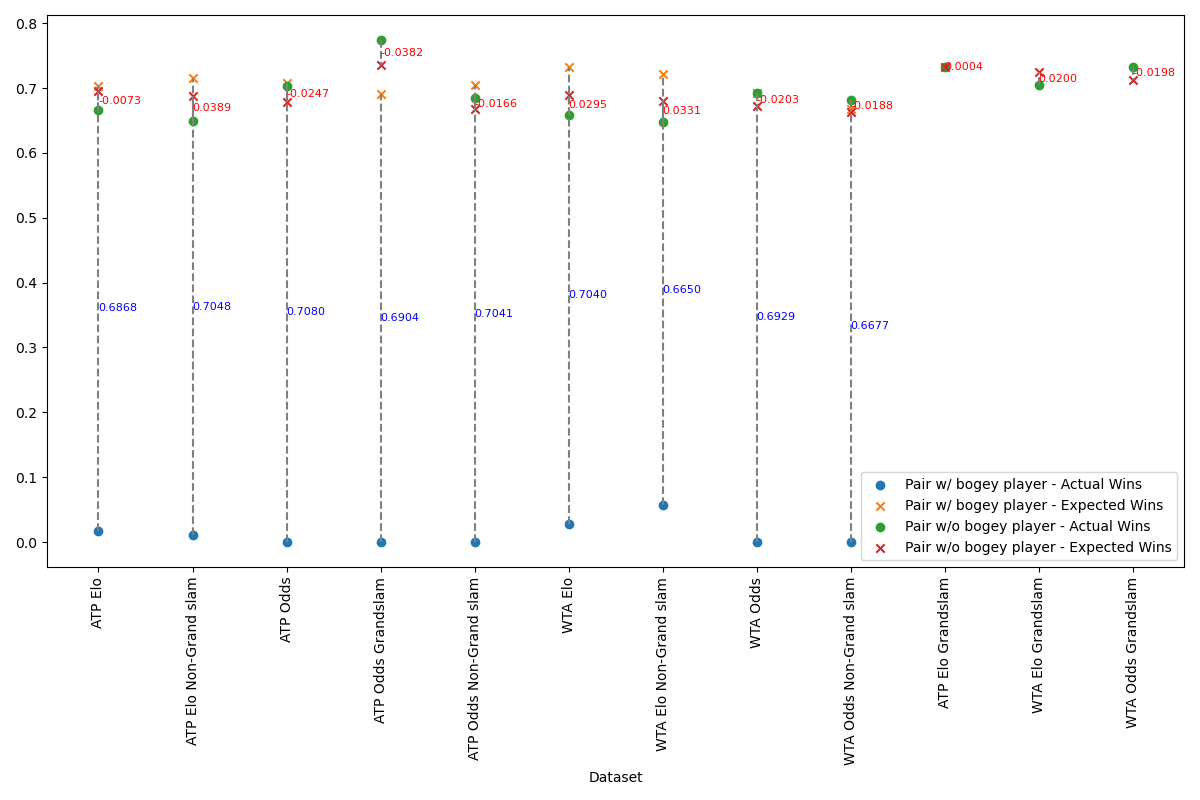
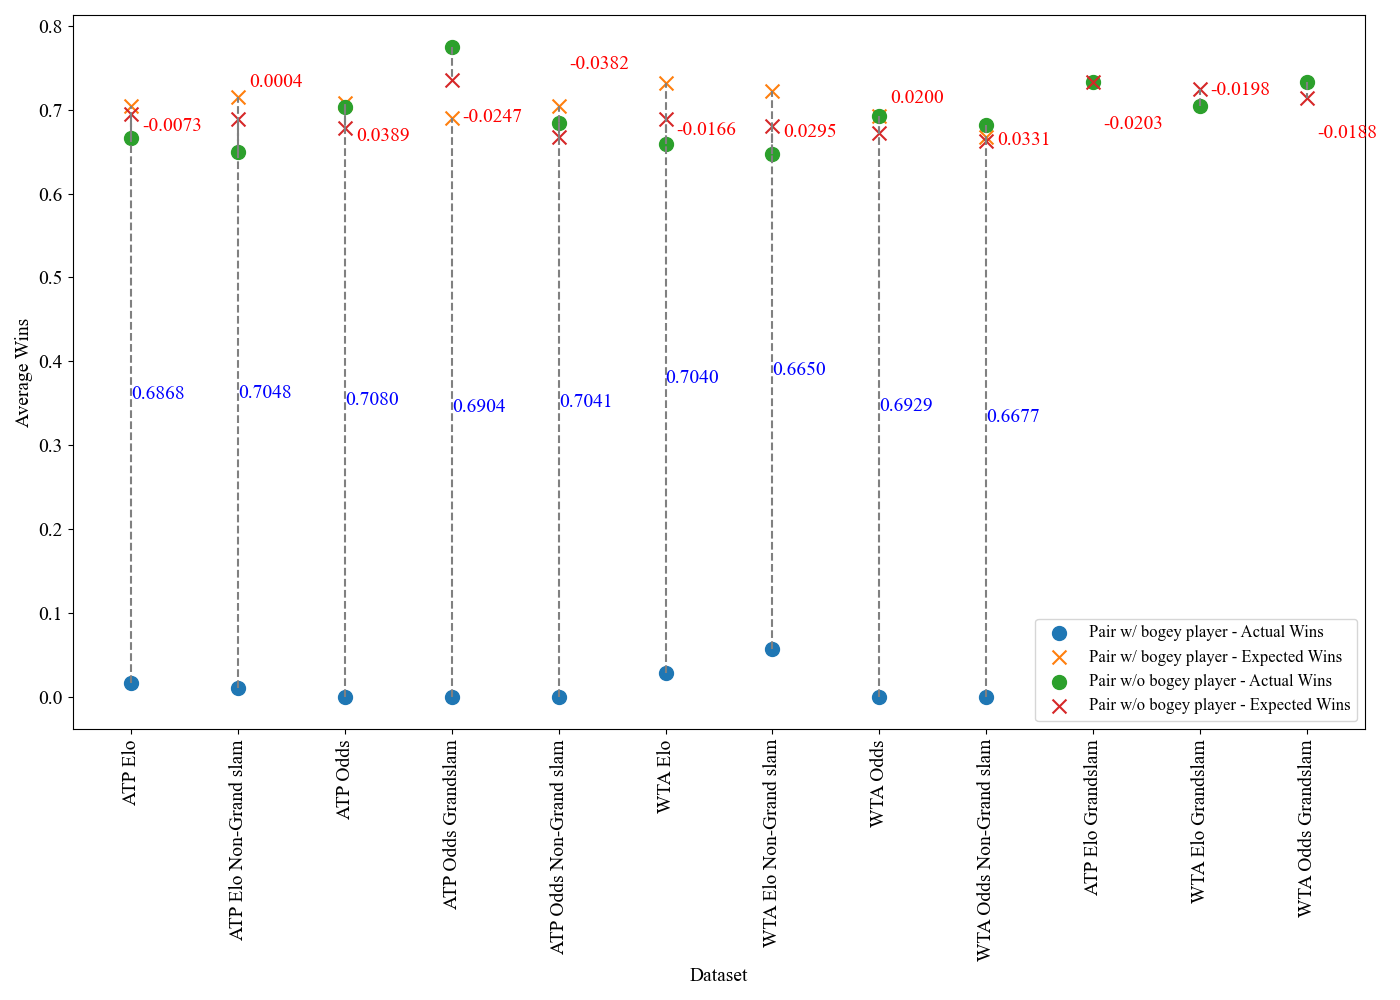
publication changes

diff --git a/plot_descriptives_elo_odds.py b/plot_descriptives_elo_odds.py
@@ -1,4 +1,4 @@
-import csv
+import csv 
 import pandas as pd
 import numpy as np
 import warnings
@@ -8,6 +8,17 @@ import ast
 import os
 import seaborn as sns
 import matplotlib.pyplot as plt
+from matplotlib import rcParams
+
+# Set global font to Times New Roman and increase font sizes
+rcParams['font.family'] = 'serif'
+rcParams['font.serif'] = ['Times New Roman']
+rcParams['font.size'] = 20  # Default font size for all text
+rcParams['axes.titlesize'] = 20  # Title font size
+rcParams['axes.labelsize'] = 20  # Axes labels font size
+rcParams['xtick.labelsize'] = 20  # X-axis tick labels font size
+rcParams['ytick.labelsize'] = 20  # Y-axis tick labels font size
+rcParams['legend.fontsize'] = 16  # Legend font size
 
 pd.options.mode.chained_assignment = None
 warnings.filterwarnings("ignore")
@@ -23,6 +34,14 @@ parser.add_argument('-e', '--e_date', type=str, required=False, default='max', h
 parser.add_argument('-p', '--p_adj_method', type=str, required=False, default='BH', help='p-value adjustment for multiple comparisons method, e.g., bonferroni, hochberg, BH, holm, hommel, BY')
 parser.add_argument('-u', '--upset', type=str, required=False, choices=['odds','elo'], default='odds', help='whether an unexpected result is based on the betting odds or elo rating (default=odds)')
 args, _ = parser.parse_known_args()
+
+def get_grand_slam_description(grand_slam_value):
+    if grand_slam_value == 0:
+        return "Non Grand Slams"
+    elif grand_slam_value == 1:
+        return "Grand Slams Only"
+    elif grand_slam_value == 2:
+        return "All Tournaments"  # This could also be "Grand Slams and Non Grand Slams"
 
 def main():
     if args.dataset == 'test':
@@ -91,9 +110,7 @@ def main():
 
     # Calculate the combined mean and variance for betting odds
     combined_mean = agg_odds_df['Betting_Odds_mean']
-    # combined_mean = (agg_winner_df['Betting_Win_Odds_mean'] + agg_winner_df['Betting_Lose_Odds_mean']) / 2
     combined_variance = agg_odds_df['Betting_Odds_variance']
-    # combined_variance = (agg_winner_df['Betting_Win_Odds_variance'] + agg_winner_df['Betting_Lose_Odds_variance']) / 2
 
     # Calculate the coefficient of variation for Elo and Betting odds
     agg_elo_df['Elo_CV'] = np.sqrt(agg_elo_df['Elo_variance']) / agg_elo_df['Elo_mean']
@@ -106,6 +123,9 @@ def main():
     agg_winner_df_filtered = agg_winner_df.dropna()
     agg_odds_df_filtered = agg_odds_df.dropna()
 
+    # Grand Slam description
+    grand_slam_desc = get_grand_slam_description(args.grand_slam)
+
     # Plotting the CVs
     plt.figure(figsize=(12, 6))
     plt.plot(agg_elo_df_filtered['Year'].astype(str), agg_elo_df_filtered['Elo_CV'], marker='o', label='Elo CV')
@@ -115,31 +135,20 @@ def main():
 
     plt.xlabel('Year')
     plt.ylabel('Coefficient of Variation (CV)')
-    if args.grand_slam == 1:
-        plt.title('Yearly Coefficient of Variation (CV) for Betting Odds and Elo Ratings' + ' - ' + args.dataset + ' - ' + 'Grand Slam')
-    elif args.grand_slam == 0:
-        plt.title('Yearly Coefficient of Variation (CV) for Betting Odds and Elo Ratings' + ' - ' + args.dataset + ' - ' + 'Non Grand Slam')
-    else:
-        plt.title('Yearly Coefficient of Variation (CV) for Betting Odds and Elo Ratings' + ' - ' + args.dataset)
-    plt.legend()
+    plt.title(f'Yearly Coefficient of Variation (CV) for Betting Odds and Elo Ratings - {args.dataset}, {grand_slam_desc}')
+    plt.legend(loc='upper left', bbox_to_anchor=(1, 1), framealpha=0.8)  # Place legend outside the plot
     plt.grid(True)
     plt.xticks(rotation=45)
     plt.tight_layout()
     plt.show()
 
-    # Create figure and axes objects
+    # Create figure and axes objects for Elo Mean and CV
     fig, (ax1, ax2) = plt.subplots(2, 1, figsize=(12, 8), sharex=True)
 
     # Plot Elo mean
     ax1.plot(agg_elo_df_filtered['Year'].astype(str), agg_elo_df_filtered['Elo_mean'], marker='o', color='b', label='Elo Mean')
     ax1.set_ylabel('Elo Mean')
-    # ax1.set_title('Elo Mean and CV Over Time')
-    if args.grand_slam == 1:
-        ax1.set_title('Elo Mean and CV Over Time' + ' - ' + args.dataset + ' - ' + 'Grand Slam')
-    elif args.grand_slam == 0:
-        ax1.set_title('Elo Mean and CV Over Time' + ' - ' + args.dataset + ' - ' + 'Non Grand Slam')
-    else:
-        ax1.set_title('Elo Mean and CV Over Time' + ' - ' + args.dataset)
+    ax1.set_title(f'Elo Mean and CV Over Time - {args.dataset}, {grand_slam_desc}')
 
     # Plot Elo variance
     ax2.plot(agg_elo_df_filtered['Year'].astype(str), agg_elo_df_filtered['Elo_CV'], marker='o', color='r', label='Elo CV')
@@ -147,8 +156,8 @@ def main():
     ax2.set_xlabel('Year')
 
     # Show legend and grid
-    ax1.legend()
-    ax2.legend()
+    ax1.legend(loc='upper left', bbox_to_anchor=(1, 1), framealpha=0.8)
+    ax2.legend(loc='upper left', bbox_to_anchor=(1, 1), framealpha=0.8)
     ax1.grid(True)
     ax2.grid(True)
 
@@ -157,22 +166,15 @@ def main():
 
     # Adjust layout
     plt.tight_layout()
-
-    # Show plot
     plt.show()
 
-   # Create figure and axes objects
+    # Create figure and axes objects for Odds Mean and CV
     fig, (ax1, ax2) = plt.subplots(2, 1, figsize=(12, 8), sharex=True)
 
     # Plot Winner Odds mean
     ax1.plot(agg_winner_df_filtered['Year'].astype(str), agg_winner_df_filtered['Betting_Win_Odds_mean'], marker='o', color='b', label='Winner Odds Mean')
     ax1.set_ylabel('Odds Mean')
-    if args.grand_slam == 1:
-        ax1.set_title('Odds Mean and CV Over Time' + ' - ' + args.dataset + ' - ' + 'Grand Slam')
-    elif args.grand_slam == 0:
-        ax1.set_title('Mean and CV Over Time' + ' - ' + args.dataset + ' - ' + 'Non Grand Slam')
-    else:
-        ax1.set_title('Odds Mean and CV Over Time' + ' - ' + args.dataset)
+    ax1.set_title(f'Odds Mean and CV Over Time - {args.dataset}, {grand_slam_desc}')
 
     # Plot Loser Odds mean
     ax1.plot(agg_winner_df_filtered['Year'].astype(str), agg_winner_df_filtered['Betting_Lose_Odds_mean'], marker='o', color='r', label='Loser Odds Mean')
@@ -192,8 +194,8 @@ def main():
     ax2.plot(agg_winner_df_filtered['Year'].astype(str), np.sqrt(combined_variance), marker='o', color='g', label='Combined Odds CV')
 
     # Show legend and grid
-    ax1.legend()
-    ax2.legend()
+    ax1.legend(loc='upper left', bbox_to_anchor=(1, 1), framealpha=0.8)
+    ax2.legend(loc='upper left', bbox_to_anchor=(1, 1), framealpha=0.8)
     ax1.grid(True)
     ax2.grid(True)
 
@@ -202,8 +204,6 @@ def main():
 
     # Adjust layout
     plt.tight_layout()
-
-    # Show plot
     plt.show()
 
 if __name__ == "__main__":

diff --git a/plot_results.py b/plot_results.py
@@ -1,14 +1,20 @@
 import numpy as np
 import matplotlib.pyplot as plt
+from matplotlib import rcParams
 
-# Data
-# datasets = ['ATP', 'WTA', 'ATP Grand Slam', 'WTA Grand Slam', 'ATP Non grand slam', 'WTA Non grand slam']
-# betting_odds = [0.02193, 0.04418, 0.01823, 0, 0.03813, 0.03739]
-# elo_ratings = [0.09868, 0.08205, 0, 0, 0.07626, 0.05983]
+# Set global font to Times New Roman
+rcParams['font.family'] = 'serif'
+rcParams['font.serif'] = ['Times New Roman']
 
+# Data 95% confidence
 datasets = ['ATP', 'WTA', 'ATP Grand Slam', 'WTA Grand Slam', 'ATP Non grand slam', 'WTA Non grand slam']
 betting_odds = [0, 0.006312, 0, 0, 0, 0.007478]
 elo_ratings = [0.0164, 0.0126, 0, 0, 0.0191, 0.015]
+
+# Data 90% confidence
+# datasets = ['ATP', 'WTA', 'ATP Grand Slam', 'WTA Grand Slam', 'ATP Non grand slam', 'WTA Non grand slam']
+# betting_odds = [0.02193, 0.04418, 0.01823, 0, 0.03813, 0.03739]
+# elo_ratings = [0.09868, 0.08205, 0, 0, 0.07626, 0.05983]
 
 # Set width of bar
 bar_width = 0.35
@@ -18,28 +24,39 @@ r1 = np.arange(len(datasets))
 r2 = [x + bar_width for x in r1]
 
 # Plotting
-plt.figure(figsize=(10, 6))
+plt.figure(figsize=(12, 8))
 
 bars1 = plt.bar(r1, betting_odds, color='blue', width=bar_width, edgecolor='grey', label='Betting Odds')
 bars2 = plt.bar(r2, elo_ratings, color='orange', width=bar_width, edgecolor='grey', label='Elo Ratings')
 
-plt.xlabel('Dataset', fontweight='bold')
-plt.xticks([r + bar_width/2 for r in range(len(datasets))], datasets, rotation=45)
-plt.ylabel('No. of bogey players identified as % of no. of player pairs in dataset', fontweight='bold')
-plt.title('No. of bogey players identified by betting odds & elo ratings as a % of total no. of player pairs in dataset', fontweight='bold')
-plt.legend()
+# Set axis labels and title with increased font size
+plt.xlabel('Dataset', fontsize=20, fontweight='bold')
+
+# Set x-ticks with increased font size
+plt.xticks([r + bar_width/2 for r in range(len(datasets))], datasets, rotation=45, fontsize=20)
+
+# Set y-ticks with increased font size
+plt.yticks(fontsize=20)
+
+# Add legend with increased font size and remove border
+legend = plt.legend(fontsize=20, loc='upper right')
+legend.get_frame().set_visible(False)  # Remove border from the legend
 
 # Set y-axis range
 plt.ylim(0, 0.1)
 
-# Add values on top of bars
+# Remove top and right borders
+plt.gca().spines['top'].set_visible(False)
+plt.gca().spines['right'].set_visible(False)
+
+# Add values on top of bars with increased font size
 for bar in bars1:
     height = bar.get_height()
-    plt.text(bar.get_x() + bar.get_width()/2.0, height, round(height, 5), ha='center', va='bottom')
+    plt.text(bar.get_x() + bar.get_width()/2.0, height, round(height, 5), ha='center', va='bottom', fontsize=20)
 
 for bar in bars2:
     height = bar.get_height()
-    plt.text(bar.get_x() + bar.get_width()/2.0, height, round(height, 5), ha='center', va='bottom')
+    plt.text(bar.get_x() + bar.get_width()/2.0, height, round(height, 5), ha='center', va='bottom', fontsize=20)
 
 plt.tight_layout()
 plt.show()

diff --git a/plot_bogey_results_output.py b/plot_bogey_results_output.py
@@ -1,5 +1,10 @@
 import pandas as pd
 import matplotlib.pyplot as plt
+from matplotlib import rcParams
+
+# Set global font to Times New Roman
+rcParams['font.family'] = 'serif'
+rcParams['font.serif'] = ['Times New Roman']
 
 # Define the dataset
 data = {
@@ -36,34 +41,42 @@ df[['Average Expected Win', 'Average Actual wins', 'Average difference in Expect
 df = df.sort_values(by='Dataset')
 
 # Plot
-plt.figure(figsize=(12, 8))
+plt.figure(figsize=(14, 10))
 
 for pair_type, group in df.groupby('Player pair type'):
     actual_wins = group['Average Actual wins']
     expected_wins = group['Average Expected Win']
     
-    plt.scatter(group['Dataset'], actual_wins, label=f'{pair_type} - Actual Wins')
-    plt.scatter(group['Dataset'], expected_wins, label=f'{pair_type} - Expected Wins', marker='x')
+    plt.scatter(group['Dataset'], actual_wins, label=f'{pair_type} - Actual Wins', s=100)  # Increase marker size
+    plt.scatter(group['Dataset'], expected_wins, label=f'{pair_type} - Expected Wins', marker='x', s=100)  # Increase marker size
     # Plotting the difference as line segments
+    # In the plotting loop
     for i in range(len(group)):
         plt.plot([group['Dataset'].iloc[i], group['Dataset'].iloc[i]], [actual_wins.iloc[i], expected_wins.iloc[i]], color='gray', linestyle='--')
-        # Shifting annotations to the right slightly
-        shift = 0.1 # adjust this value to shift more or less
+        
+        # Determine color and shift for the labels
         if pair_type == 'Pair w/o bogey player':
             color = 'red'
+            shift = 0.2  # Shift to the right
         else:
             color = 'blue'
-        plt.text(group['Dataset'].iloc[i], (actual_wins.iloc[i] + expected_wins.iloc[i]) / 2, 
-                 f"{group['Average difference in Expected and Actual wins'].iloc[i]:.4f}", 
-                 color=color, ha='left', va='center', fontsize=8)
+            shift = 0  # No shift
+        
+        # Get the x position based on the index in the group
+        x_pos = i + (0.1 if pair_type == 'Pair w/o bogey player' else 0)
+        
+        plt.text(x_pos, (actual_wins.iloc[i] + expected_wins.iloc[i]) / 2, 
+                f"{group['Average difference in Expected and Actual wins'].iloc[i]:.4f}", 
+                color=color, ha='left', va='center', fontsize=14)
 
-plt.xticks(rotation=90)
-plt.legend()
-# plt.title('Performance Metrics by Dataset and Player Pair Type')
-# plt.ylabel('Average Wins')
-plt.xlabel('Dataset')
+
+plt.xticks(rotation=90, fontsize=14)  # Increase font size for x-ticks
+plt.yticks(fontsize=14)  # Increase font size for y-ticks
+plt.xlabel('Dataset', fontsize=14)  # Increase font size for x-axis label
+plt.ylabel('Average Wins', fontsize=14)  # Increase font size for y-axis label
+# plt.title('Performance Metrics by Dataset and Player Pair Type', fontsize=16)  # Increase font size for title
+plt.legend(fontsize=12)  # Increase font size for legend
+
 plt.tight_layout()
 plt.savefig('avg_expected_win_plot.png')
-
-
-
+plt.show()

diff --git a/plot_expected_actual_win_data.py b/plot_expected_actual_win_data.py
@@ -3,6 +3,11 @@ import pandas as pd
 import numpy as np
 from matplotlib.lines import Line2D
 import argparse
+from matplotlib import rcParams
+
+# Set global font to Times New Roman
+rcParams['font.family'] = 'serif'
+rcParams['font.serif'] = ['Times New Roman']
 
 parser = argparse.ArgumentParser()
 parser.add_argument('-d', '--dataset', type=str, required=True, help='atp or wta')
